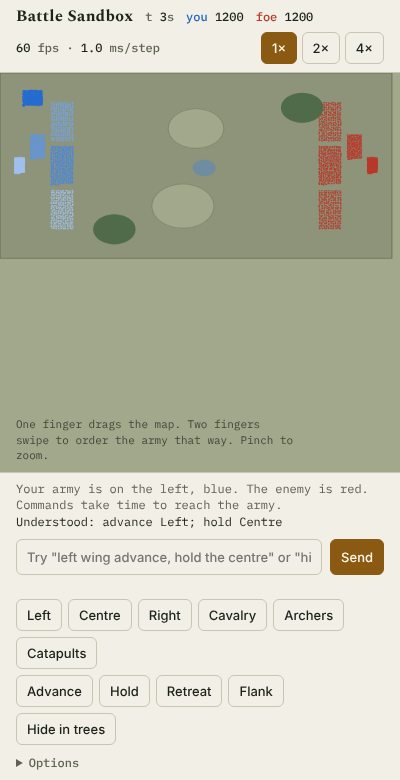
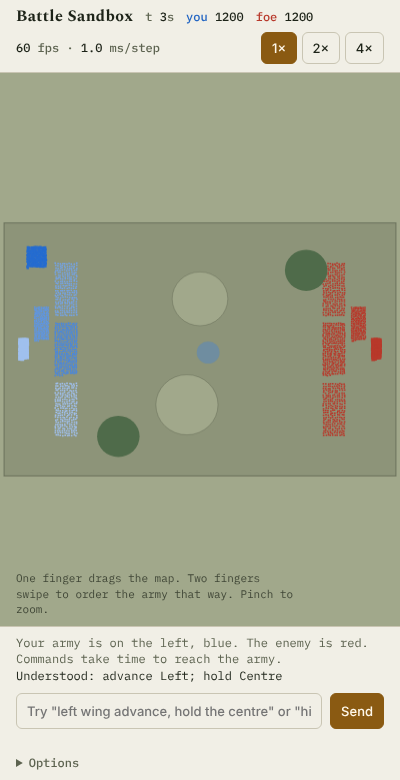
Fix scenario geometry, add fear-spread test, README, plans results
Claude-Session: https://claude.ai/code/session_01BfVaApScDMHSQF3fAKa7te

diff --git a/game/prototype/battle-sandbox.html b/game/prototype/battle-sandbox.html
@@ -79,7 +79,7 @@ button:focus-visible, input:focus-visible, select:focus-visible { outline: 2px s
 #cmd { display: flex; gap: 8px; }
 #cmd input { flex: 1 1 0; min-width: 0; padding: 9px 10px; border: 1px solid var(--line); border-radius: 6px; background: transparent; color: var(--panel-ink); }
 #cmd button.go { background: var(--accent); color: var(--accent-ink); border-color: var(--accent); }
-#quick { display: flex; flex-wrap: wrap; gap: 6px; }
+#quick { display: flex; flex-wrap: wrap; align-items: center; gap: 6px; padding-bottom: 6px; }
 #quick .grp { display: flex; flex-wrap: wrap; gap: 6px; }
 #more summary { font: 500 12px var(--font-mono); color: var(--muted); cursor: pointer; padding: 2px 0; }
 #opts { padding-top: 6px; display: flex; flex-wrap: wrap; align-items: center; gap: 8px; }
@@ -117,11 +117,12 @@ button:focus-visible, input:focus-visible, select:focus-visible { outline: 2px s
       <input id="cmdIn" type="text" placeholder='Try "left wing advance, hold the centre" or "hide the cavalry in the trees"' aria-label="Command">
       <button class="go" type="submit">Send</button>
     </form>
+    <details id="more"><summary>Options</summary>
     <div id="quick">
+      <span class="stat">Desktop test aid (not part of the design):</span>
       <span class="grp" id="grpBtns"></span>
       <span class="grp" id="actBtns"></span>
     </div>
-    <details id="more"><summary>Options</summary>
     <div id="opts">
       <label>Dots per side
         <select id="optN"><option>600</option><option selected>1200</option><option>2500</option><option>5000</option></select>
@@ -191,7 +192,7 @@ function defaultGroups(perSide) {
 class Sim {
   constructor(o = {}) {
     this.rng = mulberry32((o.seed | 0) || 1);
-    this.t = 0; this.pass = 0; this.stepN = 0; this.over = null; this.aiLog = [];
+    this.t = 0; this.pass = 0; this.stepN = 0; this.over = null; this.aiLog = []; this.firstDeath = null; this.chargeHit = 0; this.cavContact = 0;
     this.delay = o.delay == null ? ORDER_DELAY : o.delay;
     this.hideEnemy = o.hideEnemy !== false;
     this.obst = o.obstacles || defaultObstacles();
@@ -437,7 +438,7 @@ class Sim {
                 let p = 0;
                 if (tj === SOL) p = 1;
                 else if (tj === SPEAR) p = type[i] === CAV ? 2.5 : 1;
-                else if (tj === CAV) p = (vx[j] * vx[j] + vy[j] * vy[j]) > (0.6 * SPEED[CAV]) ** 2 ? 2.2 : 0.8;
+                else if (tj === CAV) { const ch = (vx[j] * vx[j] + vy[j] * vy[j]) > (0.6 * SPEED[CAV]) ** 2; p = ch ? 2.2 : 0.8; this.cavContact++; if (ch) this.chargeHit++; }
                 else if (tj === ARCH) p = 0.3;
                 if (p > 0) {
                   const e = Math.sqrt(e2) || 1; contact++; power += p; vxs += ex / e; vys += ey / e; atk += dtr[j] - 1;
@@ -519,7 +520,7 @@ class Sim {
     // apply deaths
     for (const i of dead) {
       if (!alive[i]) continue;
-      alive[i] = 0; const g = groups[grp[i]]; g.alive--; g.lossPass++; this.count[team[i]]--;
+      if (this.firstDeath == null) this.firstDeath = this.t; alive[i] = 0; const g = groups[grp[i]]; g.alive--; g.lossPass++; this.count[team[i]]--;
     }
     // morale
     const dtm = dtc;
@@ -588,44 +589,46 @@ const Proto = {
     const s = new Sim({
       seed, delay: 0, groups: [
         { team: 0, key: 'P', name: 'P', train: 1, count: 200, cx: 1200, cy: 800, w: 60, h: 60, type: SPEAR },
-        block(1, 'V', CAV, 200, 1700, 800, 60, 60, 1),
+        block(1, 'V', CAV, 200, 1300, 800, 60, 60, 1),
       ], obstacles: []
     });
     s.issue(1, ['V'], 'advance'); s.issue(0, ['P'], 'hold'); s.run(60);
-    return { spearLost: 200 - s.count[0], cavLost: 200 - s.count[1] };
+    return { spearLost: 200 - s.count[0], cavLost: 200 - s.count[1], firstDeath: s.firstDeath, chargeHit: s.chargeHit, cavContact: s.cavContact };
   },
   // Cavalry against an untrained thin infantry line (soldiers only).
   cavVsLine(seed) {
     const s = new Sim({
       seed, delay: 0, groups: [
         { team: 0, key: 'S', name: 'S', train: 1, count: 200, cx: 1200, cy: 800, w: 20, h: 300, type: SOL },
-        block(1, 'V', CAV, 200, 1700, 800, 60, 60, 1),
+        block(1, 'V', CAV, 200, 1300, 800, 60, 60, 1),
       ], obstacles: []
     });
     s.issue(1, ['V'], 'advance'); s.issue(0, ['S'], 'hold'); s.run(60);
-    return { lineLost: 200 - s.count[0], cavLost: 200 - s.count[1] };
+    return { lineLost: 200 - s.count[0], cavLost: 200 - s.count[1], firstDeath: s.firstDeath, chargeHit: s.chargeHit, cavContact: s.cavContact };
   },
-  // Rout: an untrained group gets hit while a trained neighbour stands beside it.
+  // Rout and fear spreading: U (untrained) is attacked. N (untrained) and T (trained) stand beside it but are not attacked.
   rout(seed) {
     const s = new Sim({
       seed, delay: 0, groups: [
         { team: 0, key: 'U', name: 'U', train: 1, count: 160, cx: 1000, cy: 700, w: 60, h: 100, type: SOL },
-        { team: 0, key: 'T', name: 'T', train: 9, count: 160, cx: 1000, cy: 880, w: 60, h: 100, type: SOL },
-        { team: 1, key: 'E', name: 'E', train: 5, count: 520, cx: 1300, cy: 780, w: 90, h: 230, type: SOL },
+        { team: 0, key: 'T', name: 'T', train: 9, count: 160, cx: 1000, cy: 840, w: 60, h: 100, type: SOL },
+        { team: 0, key: 'N', name: 'N', train: 1, count: 160, cx: 1000, cy: 560, w: 60, h: 100, type: SOL },
+        { team: 1, key: 'E', name: 'E', train: 5, count: 520, cx: 1140, cy: 700, w: 90, h: 140, type: SOL },
       ], obstacles: []
     });
-    s.issue(1, ['E'], 'advance'); s.issue(0, ['U', 'T'], 'hold');
-    const out = { uFleeAt: null, tFleeAt: null, uMin: 1, tMin: 1 };
+    s.issue(1, ['E'], 'advance'); s.issue(0, ['U', 'T', 'N'], 'hold');
+    const out = { uFleeAt: null, nFleeAt: null, tFleeAt: null, uMin: 1, nMin: 1, tMin: 1, nLost: 0, tLost: 0 };
     for (let k = 0; k < 30 * 90 && !s.over; k++) {
       s.step();
       if (k % 3 === 0) {
-        const u = s.groups[0], t = s.groups[1];
-        out.uMin = Math.min(out.uMin, u.morale); out.tMin = Math.min(out.tMin, t.morale);
+        const [u, t, n] = [s.groups[0], s.groups[1], s.groups[2]];
+        out.uMin = Math.min(out.uMin, u.morale); out.tMin = Math.min(out.tMin, t.morale); out.nMin = Math.min(out.nMin, n.morale);
         if (u.fleeing && out.uFleeAt == null) out.uFleeAt = s.t;
+        if (n.fleeing && out.nFleeAt == null) out.nFleeAt = s.t;
         if (t.fleeing && out.tFleeAt == null) out.tFleeAt = s.t;
       }
     }
-    out.uLost = 160 - s.groups[0].alive; out.tLost = 160 - s.groups[1].alive;
+    out.uLost = 160 - s.groups[0].alive; out.tLost = 160 - s.groups[1].alive; out.nLost = 160 - s.groups[2].alive; out.firstDeath = s.firstDeath;
     return out;
   },
   // Hidden group: enemy reserve in the forest is not visible to the player until someone comes close.
@@ -780,7 +783,7 @@ function renderGroupBtns() {
   const act = $('actBtns'); act.textContent = '';
   for (const [a, label] of [['advance', 'Advance'], ['hold', 'Hold'], ['retreat', 'Retreat'], ['flank', 'Flank'], ['conceal', 'Hide in trees']]) {
     const b = document.createElement('button'); b.textContent = label;
-    b.onclick = () => { if (!sim || sim.over) return; const keys = selected.size ? [...selected] : 'all'; sim.issue(0, keys, a); log('Ordered: ' + a + ' ' + (keys === 'all' ? 'whole army' : keys.join('+'))); };
+    b.onclick = () => { if (!sim || sim.over) return; const keys = selected.size ? [...selected] : 'all'; sim.issue(0, keys, a); };
     act.appendChild(b);
   }
 }
@@ -835,9 +838,9 @@ function swipeOrder(ux, uy) {
   const target = keys.length ? keys : 'all';
   if (Math.abs(ux) > Math.abs(uy) * 1.4) {
     const act = ux > 0 ? 'advance' : 'retreat';
-    sim.issue(0, target, act); log(`Swipe: ${act} ${target === 'all' ? 'whole army' : target.join('+')}`);
+    sim.issue(0, target, act);
   } else {
-    sim.issue(0, target, 'move', { dx: ux, dy: uy }); log(`Swipe: move ${target === 'all' ? 'whole army' : target.join('+')}`);
+    sim.issue(0, target, 'move', { dx: ux, dy: uy });
   }
 }
 

diff --git a/game/prototype/README.md b/game/prototype/README.md
@@ -1,0 +1,44 @@
+# Battle sandbox (milestone 1)
+
+A single HTML file with no dependencies: `battle-sandbox.html`. Open it in a browser. It is a design sandbox for the battle layer, not the shipped iOS code.
+
+## What it has
+
+- Five unit shapes (soldier dot, spearman triangle, cavalry dot with a rectangle horse, archer cross, catapult big dot), six groups per side, hills, forests, a pond.
+- Particle movement with separation, formation slots, noise that grows as morale drops, and terrain.
+- The death formula from spec 6.4 (contact power, exposure, support, attacker training). Morale never changes death chance directly.
+- Local morale per group, contagion between nearby groups, fleeing and rallying, training resistance.
+- Fixed hidden order delay of 20 s of battle time for every order (text, buttons and swipes).
+- Visibility: the enemy reserve hides in the forest until a player unit comes within 30 m. Hills do not block sight yet.
+- Enemy commander is a scripted stand-in (advance at 25 s, reserve charges when you come near). The real one is the on-device model.
+- Text box with a keyword parser as a stand-in for the on-device model. Voice is not in the sandbox.
+- Touch: one finger pans, two-finger swipe orders (toward the enemy advances, away retreats, other directions move), pinch zooms. Desktop: drag pans, wheel zooms.
+- Speed-up 1x, 2x, 4x.
+
+## What it does not have
+
+Split, merge, parley, spies, campaign, history, audio, and the confirm-before-execute step for unclear orders.
+
+## Differences from the design
+
+- The group and action buttons under Options are a desktop test aid. The design has only text, voice and touch.
+- After a typed command the log echoes how it was understood. This is a stand-in parser aid and is not in the spec for orders that parse cleanly.
+- A debug switch shows pending orders and group morale. Off by default.
+
+## Checks
+
+`node prototype/run-checks.mjs` runs the scenarios in headless Chromium and prints JSON. Numbers below are desktop JavaScript and say nothing about iPhone speed.
+
+| Check | Result |
+|---|---|
+| Console errors | none |
+| Order delay | no movement before 20 s, about 15 m moved by 28 s |
+| Spearmen vs cavalry charge, 5 seeds | spears lose 11 to 22 of 200, cavalry loses 34 to 48 |
+| Cavalry vs thin untrained line, 5 seeds | line loses 46 to 78, cavalry loses 36 to 49 (charge bonus fires in about 25% of cavalry contacts, but cavalry does not clearly break the line: open gap) |
+| Rout and fear spreading, 3 seeds | attacked untrained group flees at about 28 to 30 s; unattacked untrained neighbour flees at about 39 to 55 s; trained neighbour holds |
+| Hidden reserve | 72 of 72 dots hidden from the player |
+| Step time | about 0.6 ms (2,000 dots), 3.2 ms (10,000), 7.2 ms (20,000) per 1/30 s step |
+
+## Constants changed during the run
+
+- Death constant K raised from 0.03 to 0.10 and the morale loss coefficient from 2.2 to 3.5. This was done while the first scenario blocks were still far apart, so the early numbers were measuring the walk and not the fight. After moving the blocks close, the numbers above look plausible, so I kept the new values. Nothing else is tuned. Treat every constant as a first guess.

diff --git a/game/plans.md b/game/plans.md
@@ -37,13 +37,18 @@ Each milestone lists its goal, the spec parts it covers, the section 13 tests it
 - **Status:** the docs, `CLAUDE.md` and prototype are ready in `game/` of the current repository. Creating the repository failed with a 403 (the connected GitHub integration cannot create repositories). To finish: create an empty private repository on your GitHub account, then I attach it and push.
 - **Gate:** you approve the repository name and layout.
 
-### M1. Battle sandbox (browser prototype) — built in this session
+### M1. Battle sandbox (browser prototype): built, results below
 - **Goal:** see the core idea working and get a first feasibility signal for the particle simulation.
-- **Covers:** spec 6.2 to 6.6, 6.9, 7.2 (touch), 6.6 (hidden order delay), with a stand-in text parser.
-- **Tests:** an informal version of tests 3 and 4 (unit behaviours, rout). Desktop-JS step times, not phone numbers.
-- **Risk retired:** partly, the simulation design is workable; **not** the phone performance risk.
-- **Runs:** here (Playwright). The prototype is also published as an Artifact to try on your phone.
-- **Gate:** you try it and tell me what to change.
+- **Covers:** spec 6.2 to 6.6, 6.9, 7.2 (touch), 6.6 (hidden order delay), with a keyword parser standing in for the on-device model. Voice is not in the sandbox.
+- **Results (desktop JavaScript, headless Chromium; not iPhone numbers).** Details and constants are in `prototype/README.md`.
+  - Order delay: a group does not move before the delay and moves after it. Passes.
+  - Spearmen against a cavalry charge (5 seeds): spearmen lose 11 to 22 of 200, cavalry loses 34 to 48. Passes.
+  - Cavalry against a thin untrained line (5 seeds): the line loses 46 to 78, the cavalry loses 36 to 49. The charge bonus does fire, but cavalry does not clearly break the line. **Open gap**, not tuned.
+  - Fear spreading (3 seeds): the attacked untrained group flees at about 28 to 30 s, an untrained neighbour that was never attacked flees later (about 39 to 55 s), and a trained neighbour never flees. Passes.
+  - Hidden group: all 72 dots of the forest reserve are hidden from the player. Passes.
+  - Speed: about 0.6 ms per step for 2,000 dots, 3.2 ms for 10,000 and 7.2 ms for 20,000 (a step is 1/30 s of battle time). This is a desktop signal only.
+- **Risk retired:** partly. The simulation design works; phone performance is still unknown (M3).
+- **Gate:** you try the published sandbox and tell me what to change.
 
 ### M2. Simulation core in Swift (CPU reference) **[needs Mac/iPhone to run on device; logic tests run on any Swift machine]**
 - **Goal:** the deterministic `Sim` package, ported from the prototype's design, with seeded tests and a replayable log.

diff --git a/game/CLAUDE.md b/game/CLAUDE.md
@@ -4,17 +4,19 @@ Project: a medieval battle strategy game for iPhone (working title). You command
 
 ## Document map (read in this order)
 
-1. `notes.md`: raw captured idea in the owner's words. The source of truth for every **Decided** rule.
-2. `intent.md`: why and what (vision, pillars, non-goals, constraints). Approved.
-3. `spec.md`: how (rules, schemas, data model, acceptance tests). Approved. Section 15 holds accepted defaults.
-4. `plans.md`: milestones M0 to M10 with kickoff gates.
+Paths are for the project's own repository. While the files still live in the `game/` folder of another repository they sit flat, without the `docs/` folder.
+
+1. `docs/notes.md`: raw captured idea in the owner's words. The source of truth for every **Decided** rule.
+2. `docs/intent.md`: why and what (vision, pillars, non-goals, constraints). Approved.
+3. `docs/spec.md`: how (rules, schemas, data model, acceptance tests). Approved. Section 15 holds accepted defaults.
+4. `docs/plans.md`: milestones M0 to M10 with kickoff gates.
 5. `prototype/battle-sandbox.html`: browser sandbox of the battle (milestone 1). Not the shipped code.
 
 ## Workflow
 
 Capture, then intent, spec, plans, then one kickoff per milestone (the owner approves each before work starts), build, test, review.
 
-- Any decided change goes into `notes.md` first, then into `intent.md` and `spec.md`, and `plans.md` if scope moves. Do not change the spec without recording why in the notes.
+- Any decided change goes into `docs/notes.md` first, then into `docs/intent.md` and `docs/spec.md`, and `docs/plans.md` if scope moves. Do not change the spec without recording why in the notes.
 - Label what you add yourself as **Proposed**. Do not add game mechanics the owner did not ask for. The owner wants live logic and basic things, not rule tables.
 - If two documents contradict each other, say so and ask. Do not silently pick one.
 
@@ -28,7 +30,7 @@ Capture, then intent, spec, plans, then one kickoff per milestone (the owner app
 ## Platform constraints
 
 - iOS 26 or later, Apple Intelligence devices only. Fully offline. Voice, parsing and narrative are on-device.
-- This cloud container has no Swift, no Xcode and no iPhone. Work that needs them is marked in `plans.md`. Do not claim iOS code was built or run unless it was.
+- This cloud container has no Swift, no Xcode and no iPhone. Work that needs them is marked in `docs/plans.md`. Do not claim iOS code was built or run unless it was.
 - Do not report prototype timings as iPhone numbers.
 
 ## Conventions
